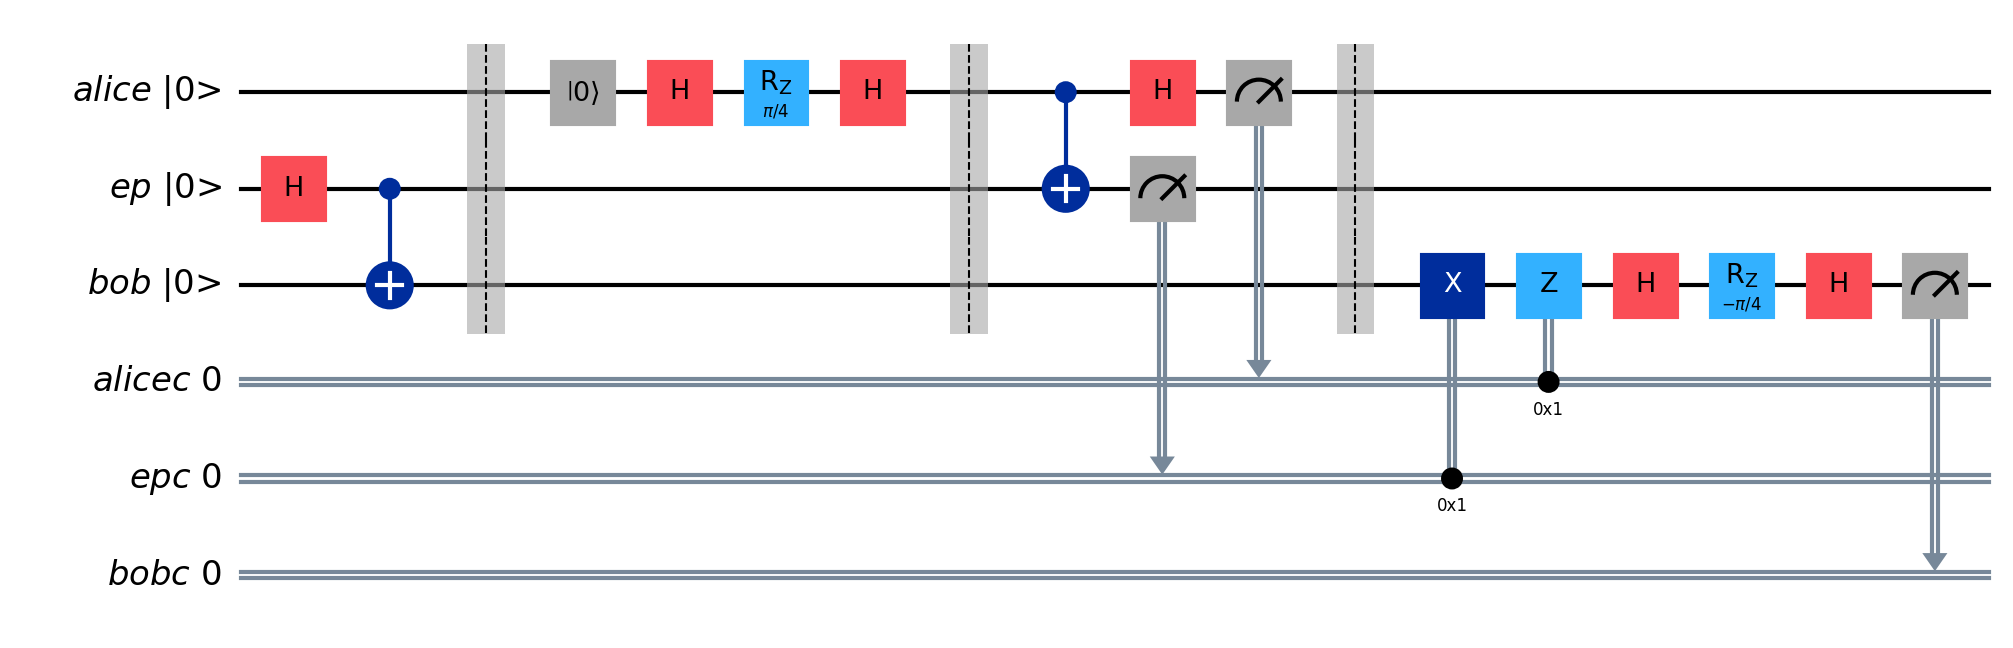
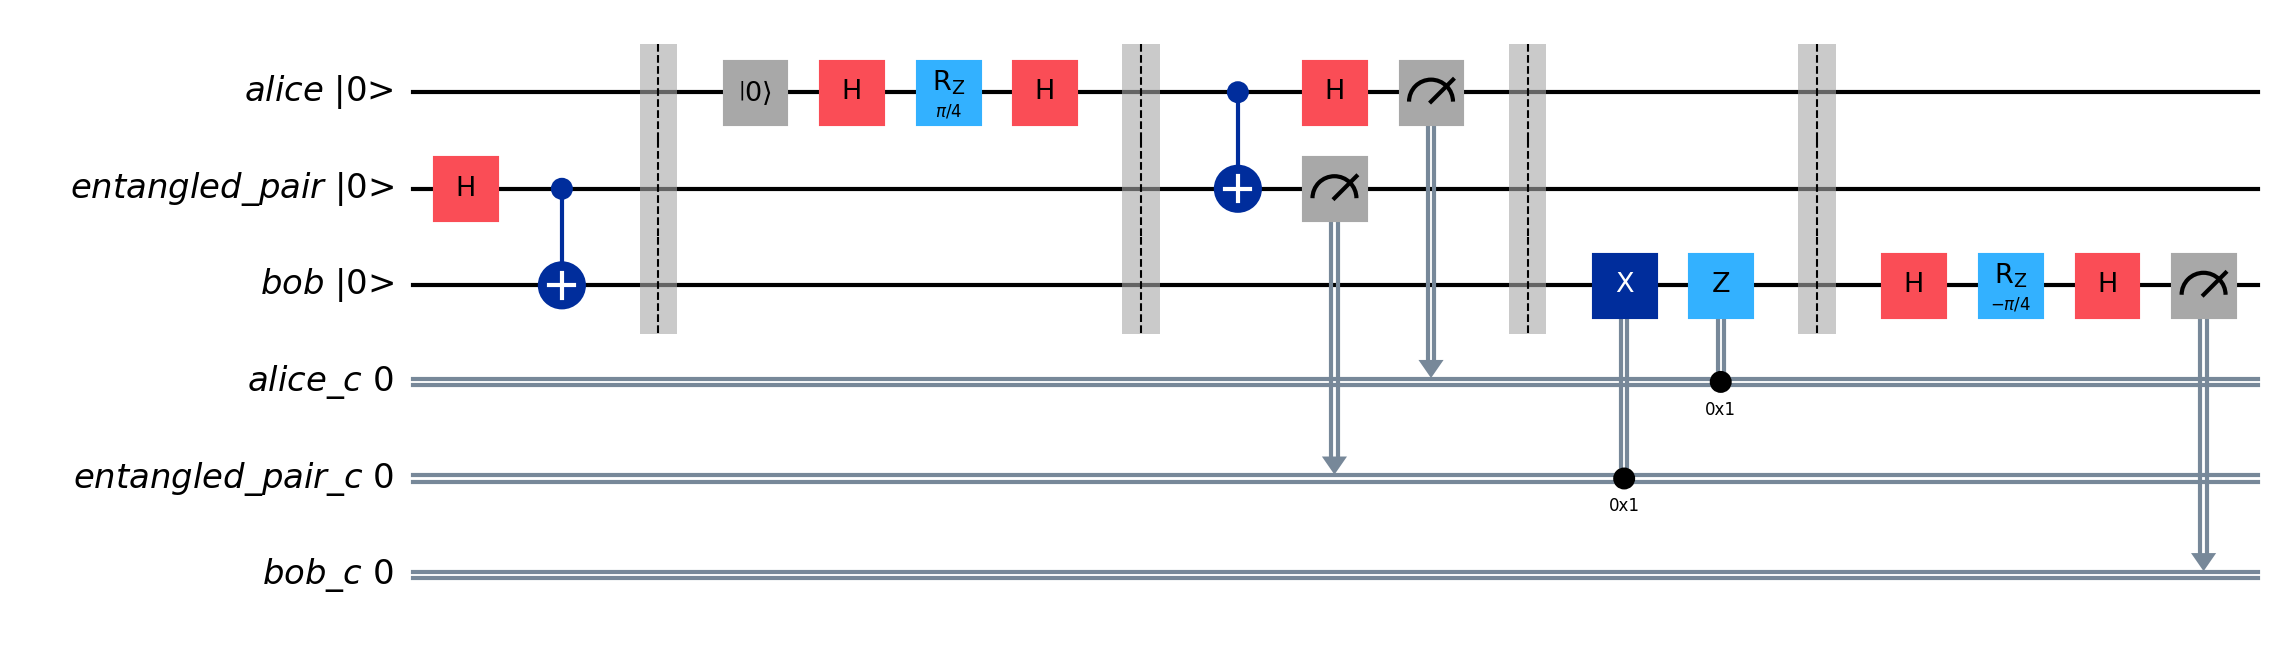
Improve.

diff --git a/teleport.py b/teleport.py
@@ -33,6 +33,7 @@ qc.barrier()
 # Receive
 qc.x(bob).c_if(ep_c, 1)
 qc.z(bob).c_if(alice_c, 1)
+qc.barrier()
 
 # Verify
 qc.h(bob)
@@ -59,5 +60,5 @@ qc.draw(
     cregbundle=False,
     initial_state=True,
     fold=-1,
-    filename="teleportation.png",
+    filename="teleport.png",
 )

diff --git a/README.md b/README.md
@@ -44,4 +44,5 @@ black .
 
     ![](docs/_static/teleport.png)
 
-    Alice teleports the quantum state of her payload qubit using an entangled pair of qubits shared with Bob. Only two classical bits are needed to transmit Alice’s qubit state (i.e., magnitudes and relative phase) and Bob's retrieved qubit state will be correct to a potentially infinite number of classical bits of precision. Because a traditional channel is needed to convey the two classical bits from Alice to Bob, the speed of teleportation can be no faster than the speed of light.
+    Alice teleports the quantum state of her payload qubit using an entangled pair of qubits shared with Bob. Only two classical bits are needed to transmit Alice’s qubit state (i.e., magnitudes and relative phase) and Bob's retrieved qubit state will be correct to a potentially infinite number of classical bits of precision. Because a traditional channel is needed to convey the two classical bits from Alice to Bob, the speed of teleportation can be no faster than the speed of light. 
+    <br> To verify successful teleportation, Bob applies the gates, which Alice applied on `∣0⟩` to prepare her payload, to his retrieved qubit in reverse. If Bob's retrieved qubit matches that sent by Alice, the final measurement result after verification gates should be `0`.
